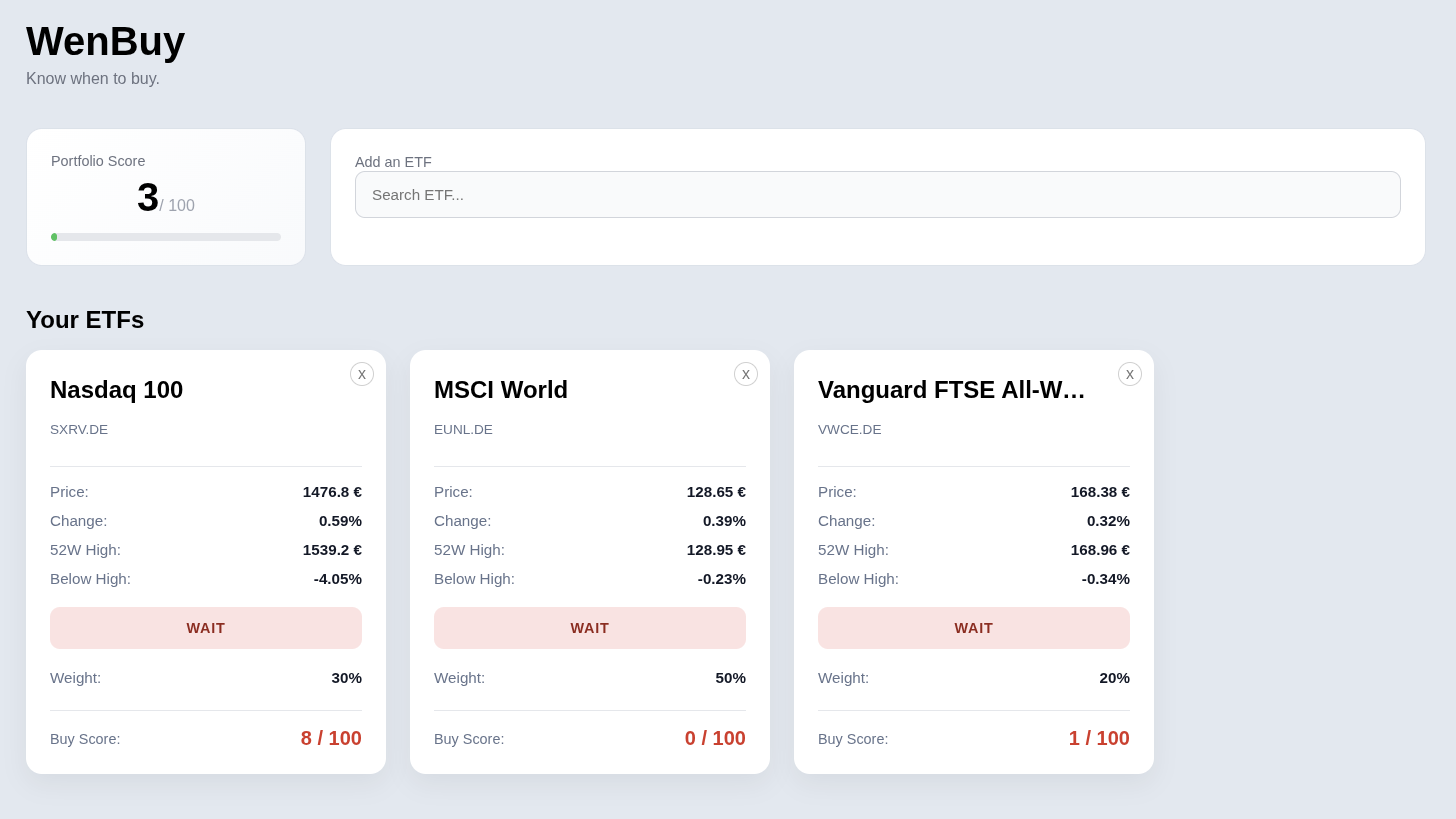
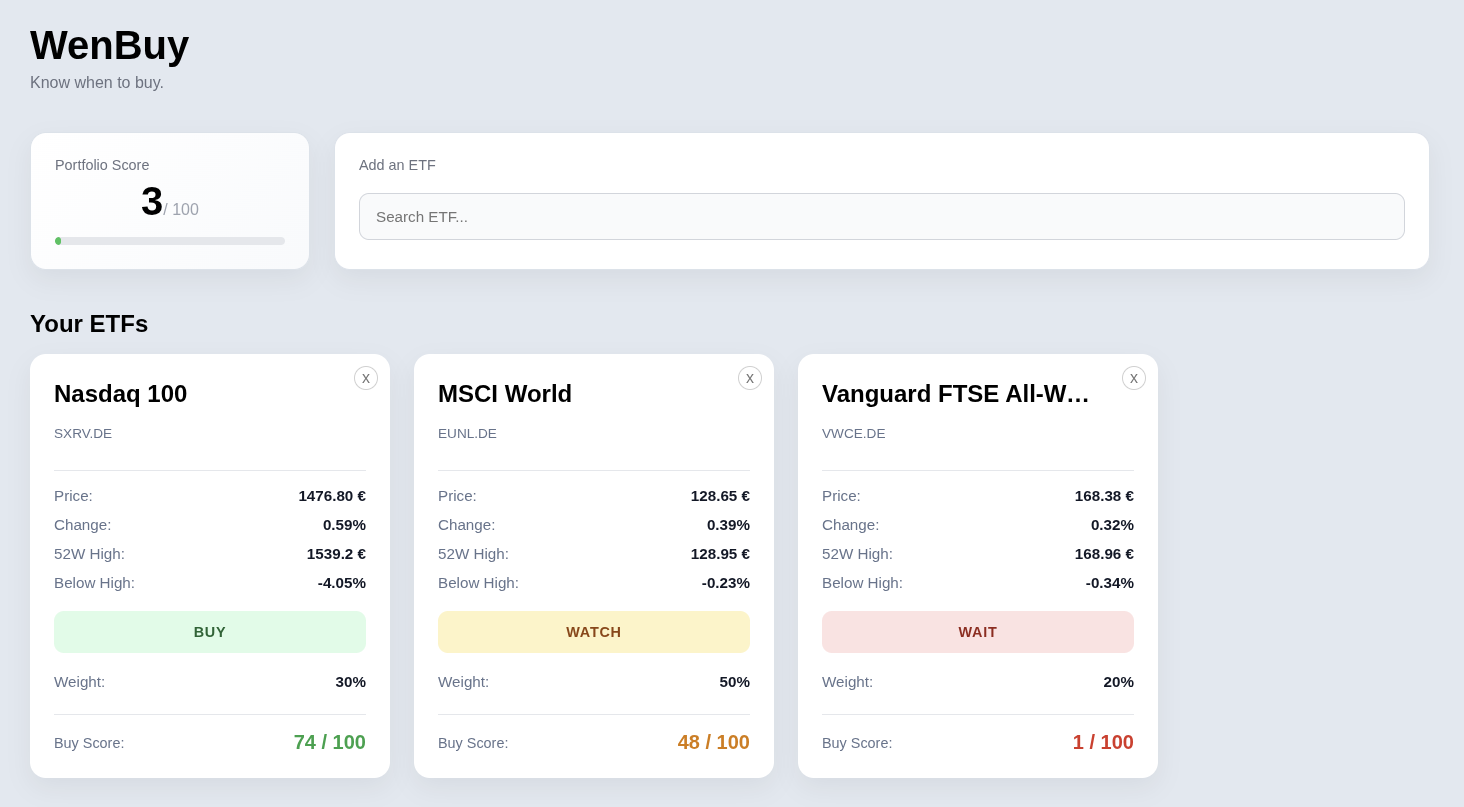
temporary change for the demo screenshot

diff --git a/src/components/ETFCard.tsx b/src/components/ETFCard.tsx
@@ -87,7 +87,16 @@ function ETFCard({ etf }: ETFCardProps) {
   const dropFromHigh = ((etf.price - etf.high52) / etf.high52) * 100;
   // const buyColor = getBuycolor(dropFromHigh);
 
+  // THIS IS HERE JUST FOR THE SCREENSHOT
+  // const realScore = calculateBuyScore(etf);
+  // const demoScores: Record<string, number> = {
+  //   "SXRV.DE": 74,
+  //   "EUNL.DE": 48,
+  // };
+
   const buyScore = calculateBuyScore(etf);
+  // THIS IS HERE JUST FOR THE SCREENSHOT
+  // const buyScore = demoScores[etf.symbol] ?? realScore;
   const buySignal = getBuySignal(buyScore);
 
   return (
